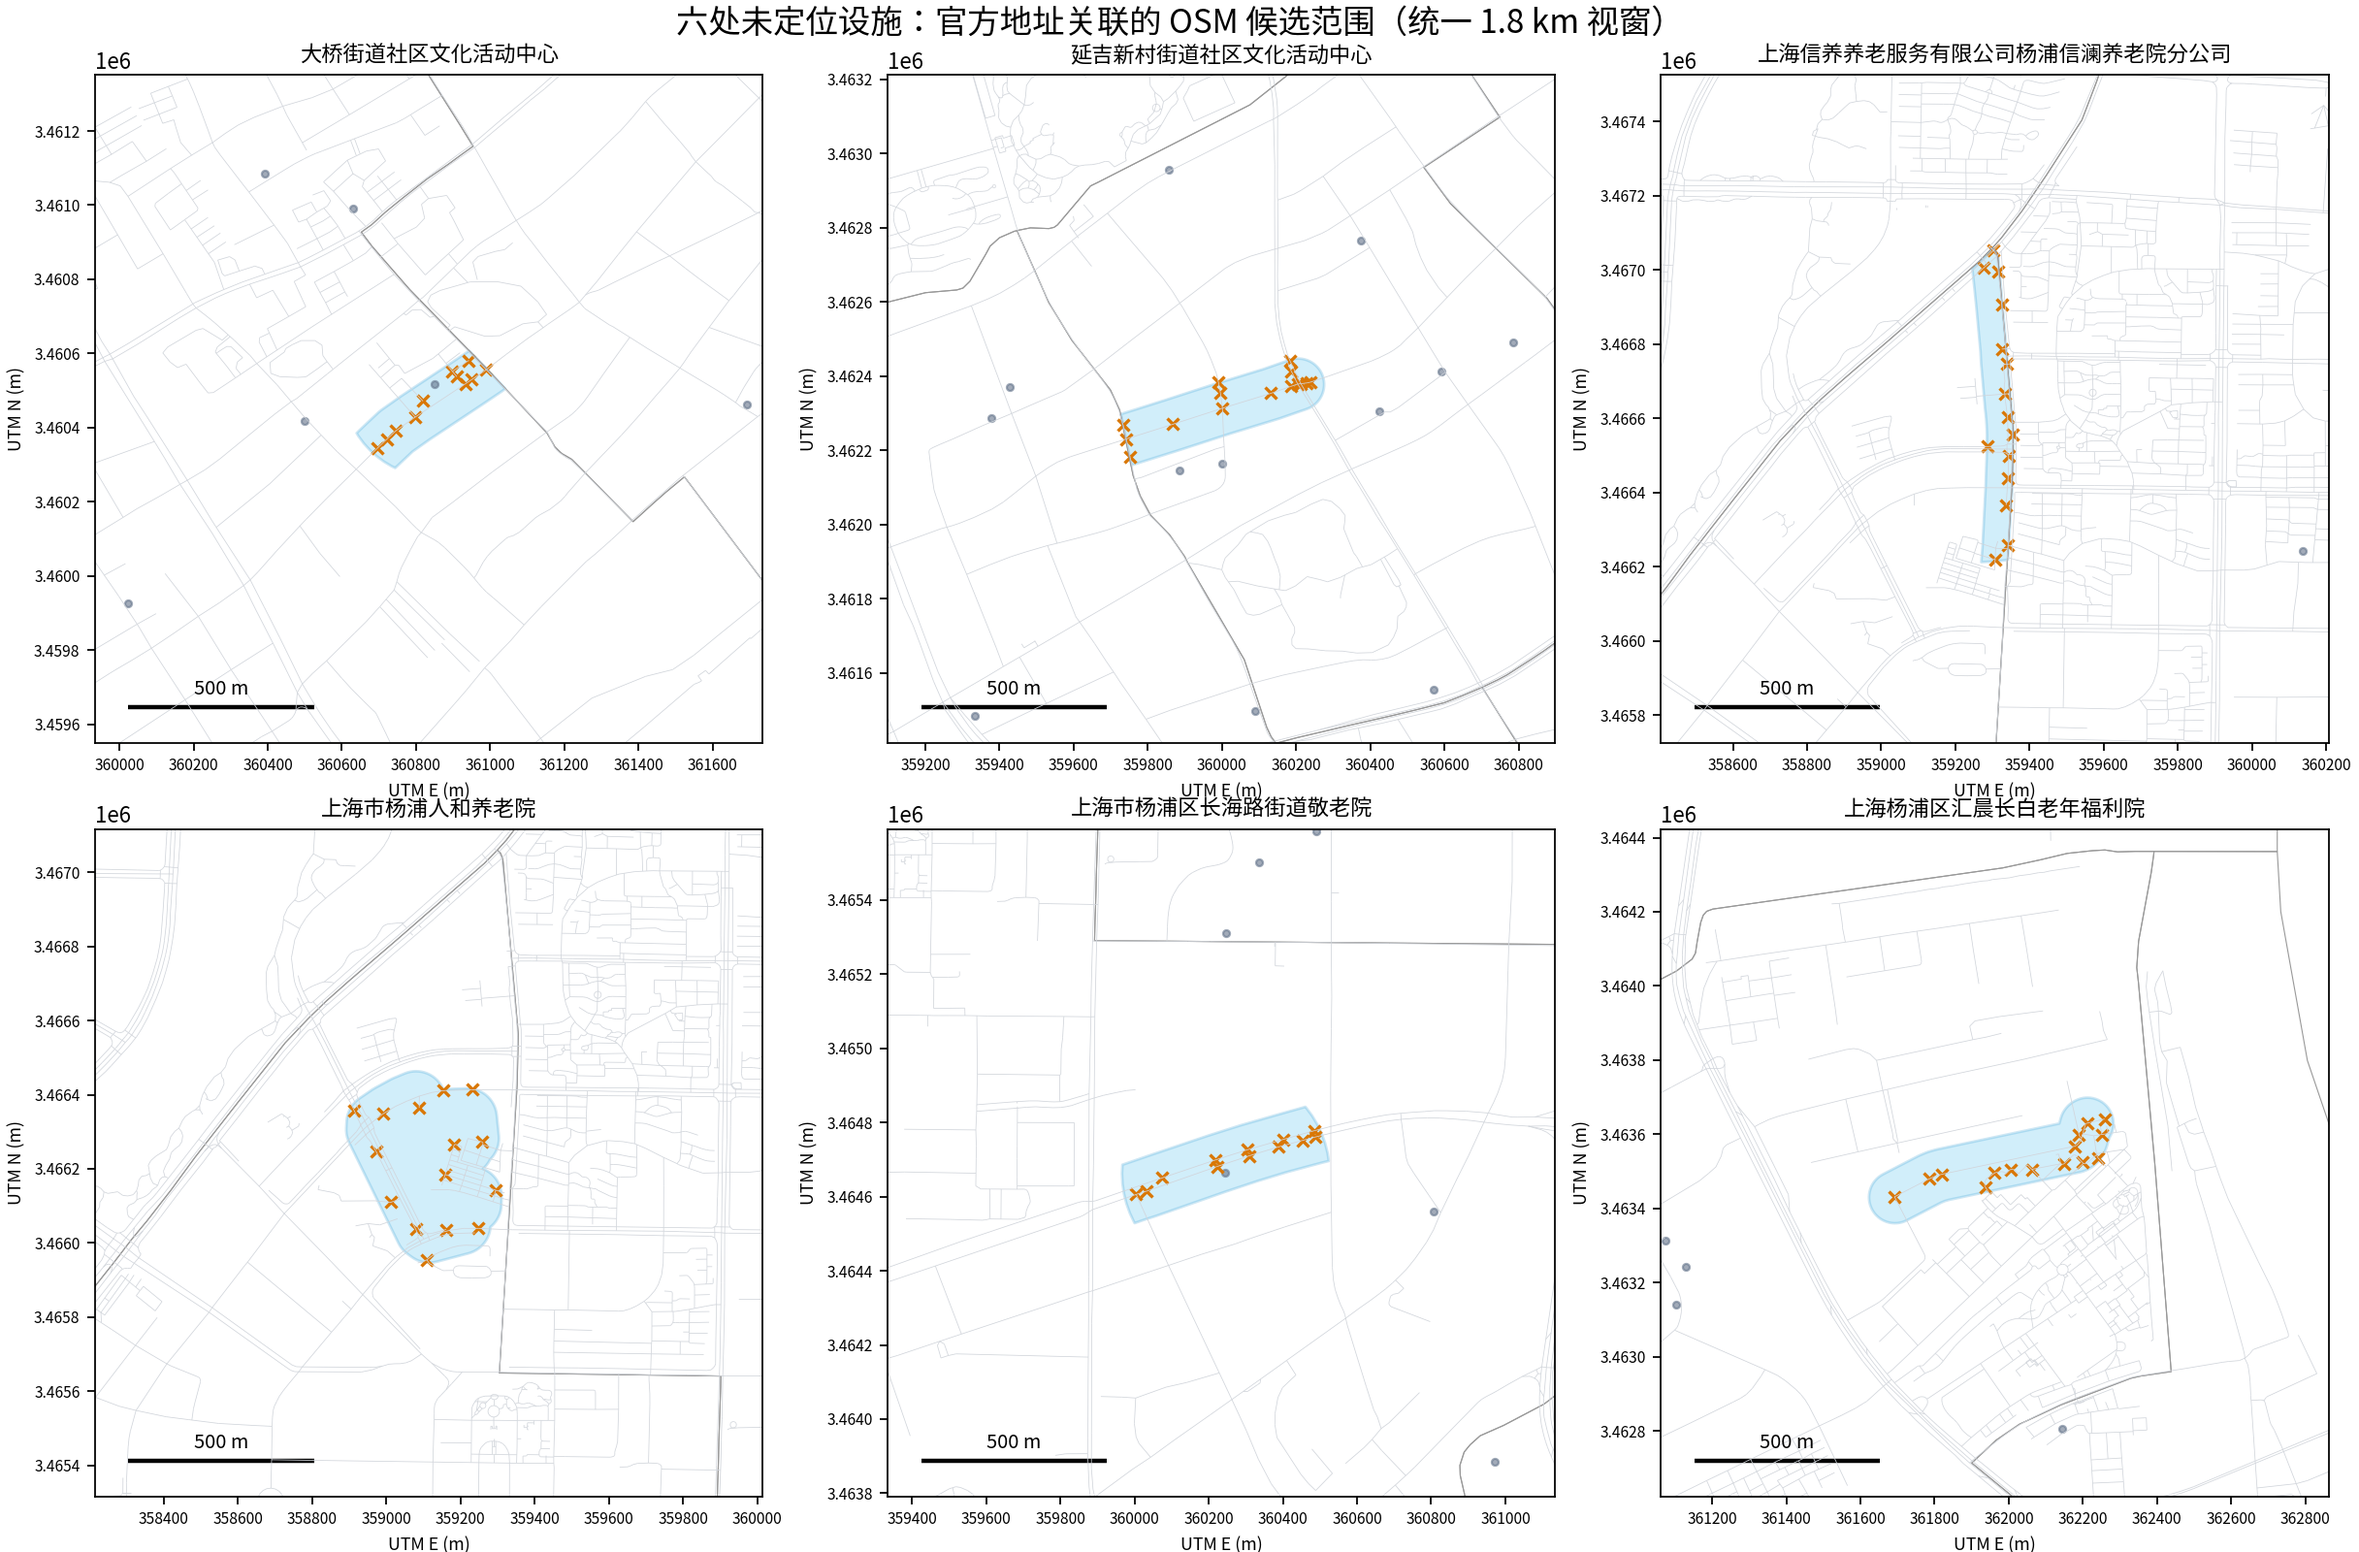
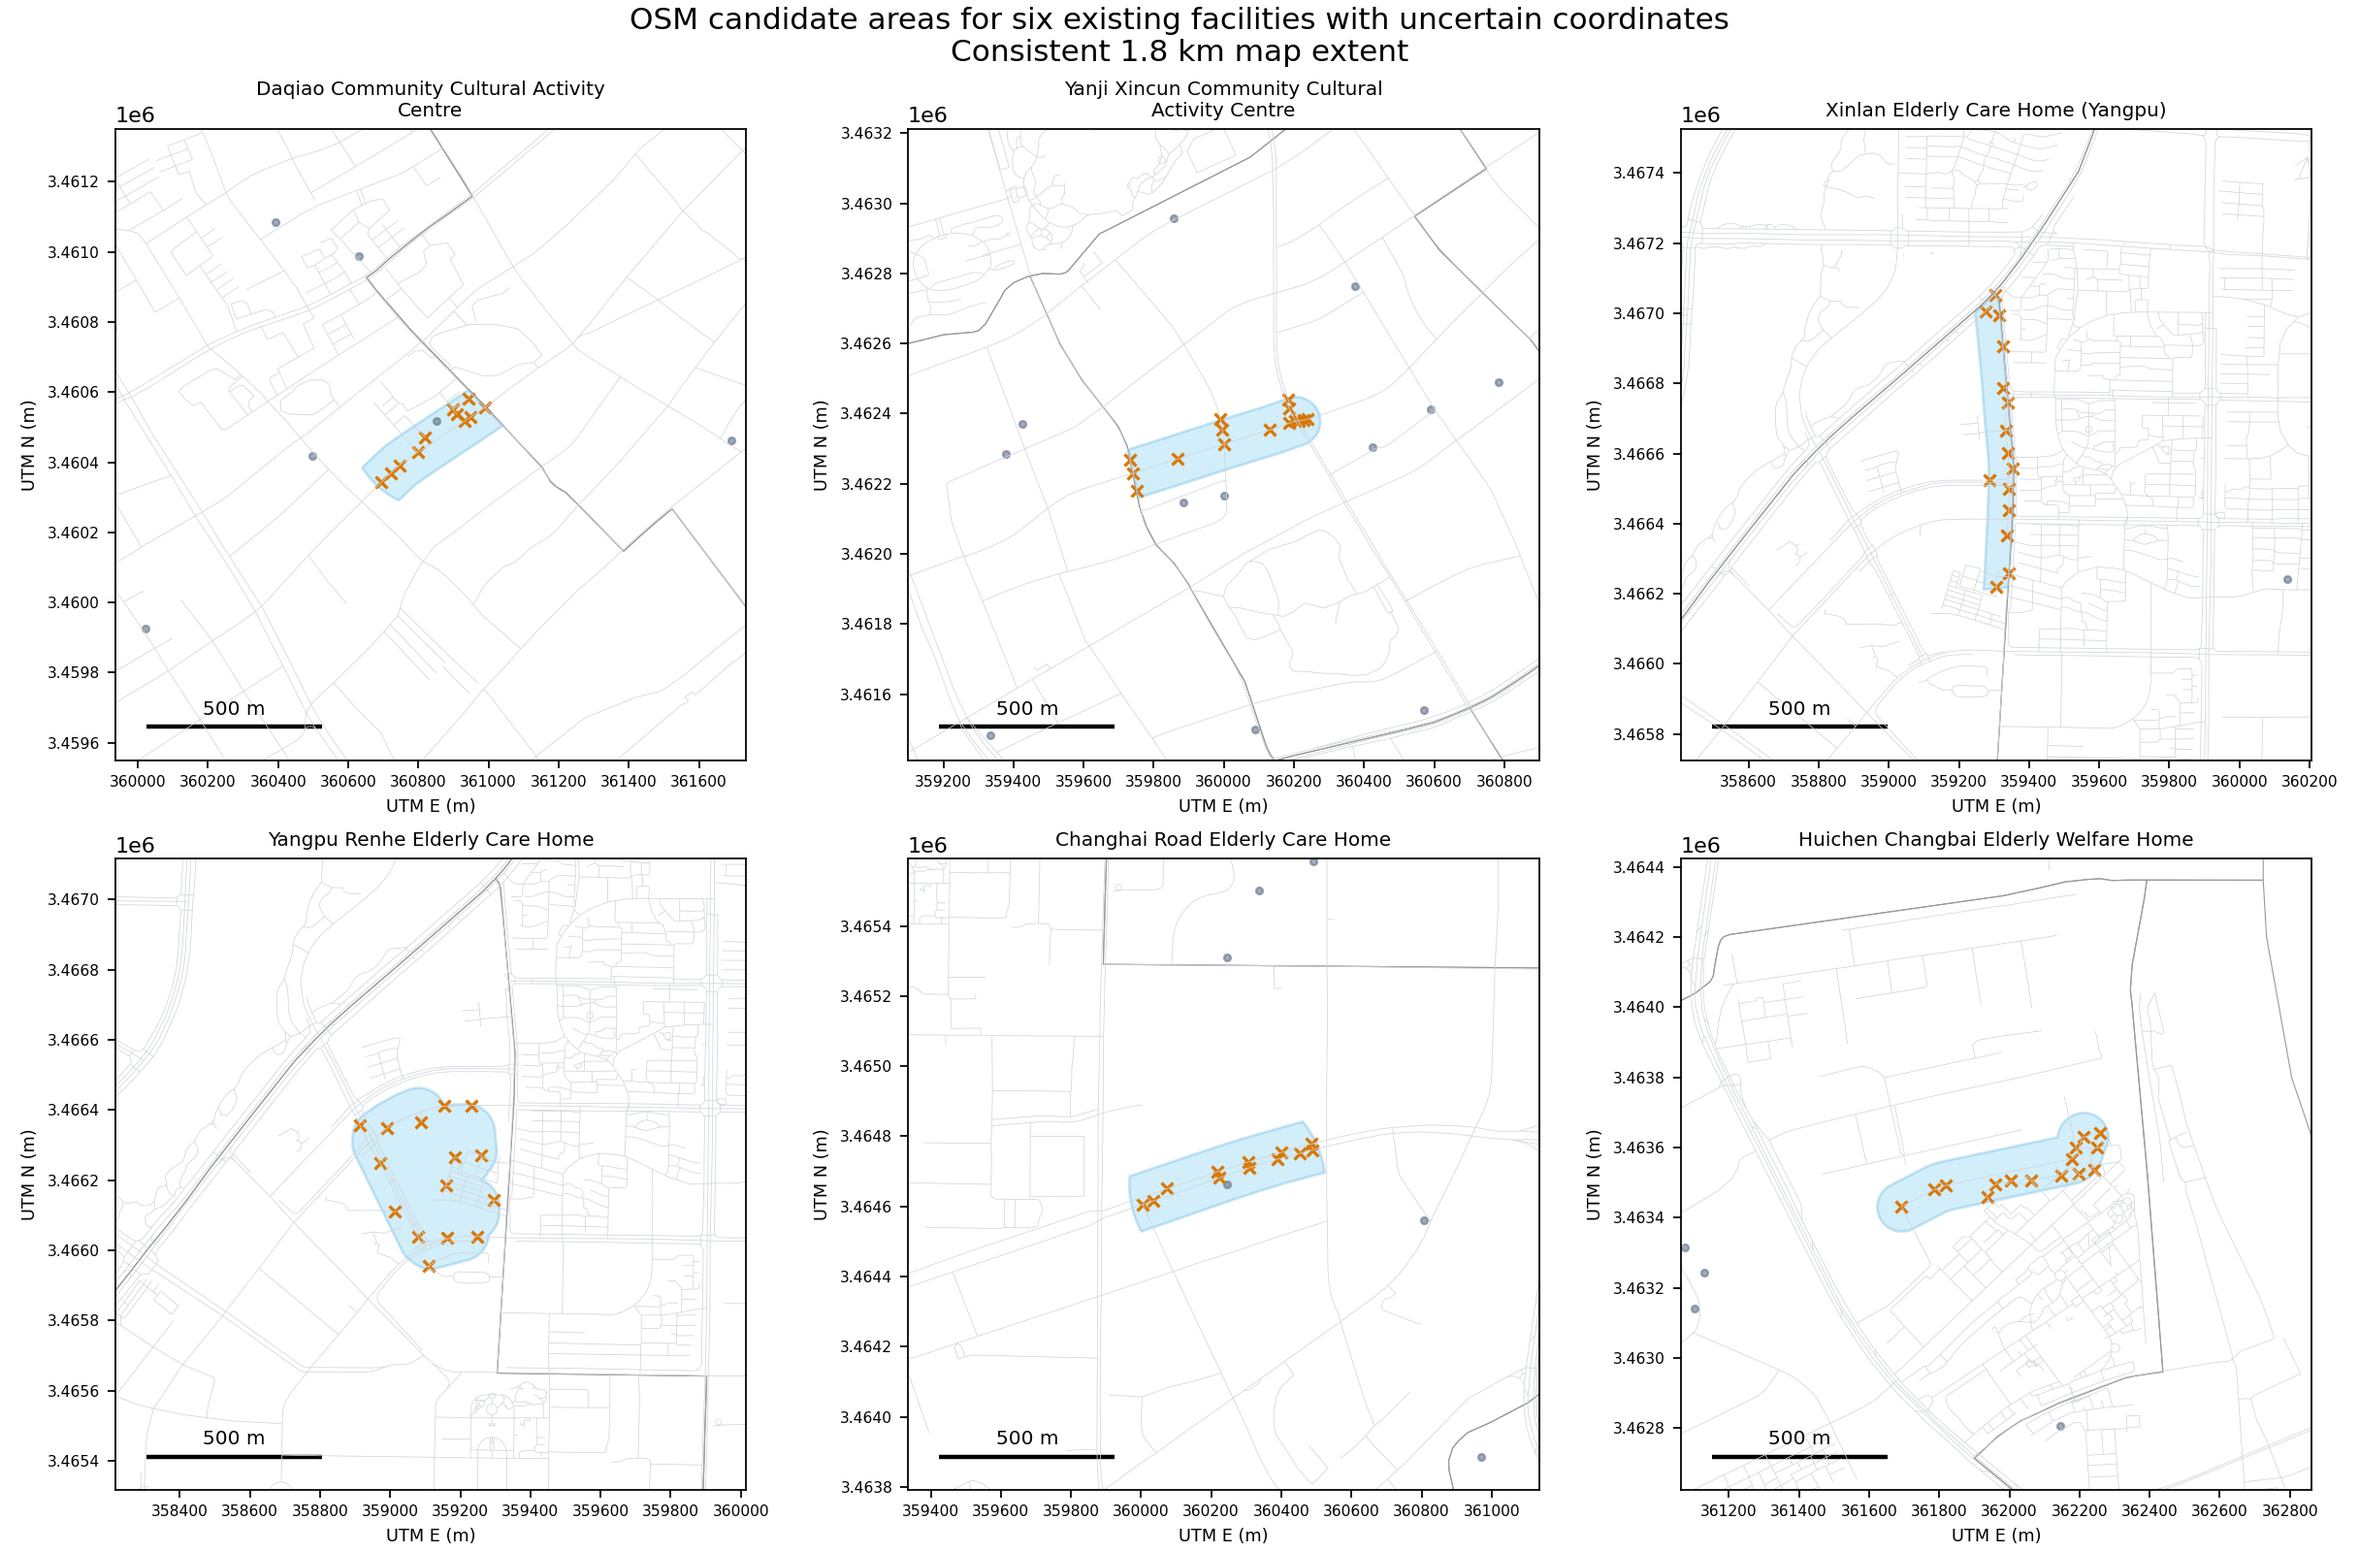
update issues

diff --git a/src/15_osm_inference_figures.py b/src/15_osm_inference_figures.py
@@ -10,7 +10,18 @@ from matplotlib.patches import Rectangle
 ROOT=Path(__file__).resolve().parents[1]
 OUT=ROOT/'outputs/osm_inference'
 REG=ROOT/'data/processed/p06_refined_clean.gpkg'
-plt.rcParams['font.family']='Noto Sans CJK JP'
+plt.rcParams['font.family']='DejaVu Sans'
+NAME_TABLE=ROOT/'data/qa/osm_inference/six_facility_address_osm_trace.csv'
+# Readable display translations; official Chinese names and existing *_en columns remain in CSV.
+DISPLAY_NAMES={
+ '大桥街道社区文化活动中心':'Daqiao Community Cultural Activity Centre',
+ '延吉新村街道社区文化活动中心':'Yanji Xincun Community Cultural Activity Centre',
+ '上海信养养老服务有限公司杨浦信澜养老院分公司':'Xinlan Elderly Care Home (Yangpu)',
+ '上海市杨浦人和养老院':'Yangpu Renhe Elderly Care Home',
+ '上海市杨浦区长海路街道敬老院':'Changhai Road Elderly Care Home',
+ '上海杨浦区汇晨长白老年福利院':'Huichen Changbai Elderly Welfare Home',
+}
+
 
 def make_maps():
     sites=gpd.read_file(OUT/'address_candidate_envelopes.gpkg',layer='sampled_network_access_vertices')
@@ -19,6 +30,7 @@ def make_maps():
     bounds=gpd.read_file(REG,layer='study_subdistricts')
     locs=gpd.read_file(REG,layer='facility_inherited_coordinates')
     names=[x.facility_name for x in envelopes.itertuples()]
+    translations=pd.read_csv(NAME_TABLE).drop_duplicates('facility_name').set_index('facility_name')['facility_name_en'].to_dict()
     fig,axs=plt.subplots(2,3,figsize=(15.2,10),constrained_layout=True)
     half=900 # all panels have EXACTLY the same 1800m ×1800m view
     for ax,name in zip(axs.flat,names):
@@ -35,12 +47,18 @@ def make_maps():
         ss=sites[sites.facility_name==name]
         ss.plot(ax=ax,color='#d97706',markersize=29,marker='x')
         ax.set_xlim(xmin,xmax);ax.set_ylim(ymin,ymax);ax.set_aspect('equal');
-        ax.set_title(name,fontsize=10)
+        english=DISPLAY_NAMES.get(name) or translations.get(name)
+        if not isinstance(english,str) or not english.strip():
+            raise ValueError(f'Missing existing English translation for facility: {name}')
+        # The supplied *_en fields contain transliterations rather than always official translations.
+        # Wrap long names without altering facility identity.
+        import textwrap
+        ax.set_title('\n'.join(textwrap.wrap(english,width=38)),fontsize=9)
         ax.add_patch(Rectangle((xmin+90,ymin+95),500,0,ec='black',lw=2))
         ax.text(xmin+340,ymin+130,'500 m',fontsize=9,ha='center')
         ax.tick_params(labelsize=7)
         ax.set_xlabel('UTM E (m)',fontsize=8);ax.set_ylabel('UTM N (m)',fontsize=8)
-    fig.suptitle('六处未定位设施：官方地址关联的 OSM 候选范围（统一 1.8 km 视窗）',fontsize=15)
+    fig.suptitle('OSM candidate areas for six existing facilities with uncertain coordinates\nConsistent 1.8 km map extent',fontsize=14)
     fig.savefig(OUT/'01_address_inference_six_equal_scale_maps.png',dpi=160)
     plt.close(fig)
 
@@ -54,12 +72,14 @@ def make_profile():
         lo=d.inferred_89_min_share.to_numpy()*100;hi=d.inferred_89_max_share.to_numpy()*100
         ax.hlines(y,lo,hi,lw=4,color='#0284c7',label='89-site inferred location scenarios')
         ax.scatter((lo+hi)/2,y,color='#075985',marker='|',s=70)
-        ax.set_yticks(y,d.subdistrict)
+        if 'subdistrict_en' not in d.columns or d.subdistrict_en.isna().any():
+            raise ValueError('English subdistrict names are missing in the project data')
+        ax.set_yticks(y,d.subdistrict_en)
         ax.set_xlim(0,100);ax.set_xlabel('15-minute walkable network length coverage (%)')
-        ax.set_title('社区文化中心' if service=='culture' else '养老设施')
+        ax.set_title('Community cultural centres' if service=='culture' else 'Elderly care facilities')
         ax.grid(axis='x',alpha=.25)
         if service=='culture':ax.legend(loc='lower right',fontsize=8)
-    fig.suptitle('83处既有坐标与89处地址推断情景——网络覆盖敏感性\n情景范围非统计置信区间；新增6处假设路网接入成本为0',fontsize=13)
+    fig.suptitle('Sensitivity of 15-minute network coverage to six existing-facility locations\n83 geocoded sites vs. 89-site inferred-location scenarios (scenario ranges; not confidence intervals)',fontsize=12)
     fig.savefig(OUT/'02_missing_facilities_inference_15min_sensitivity.png',dpi=150)
     plt.close(fig)
 if __name__=='__main__':make_maps();make_profile();print('Figures generated')
